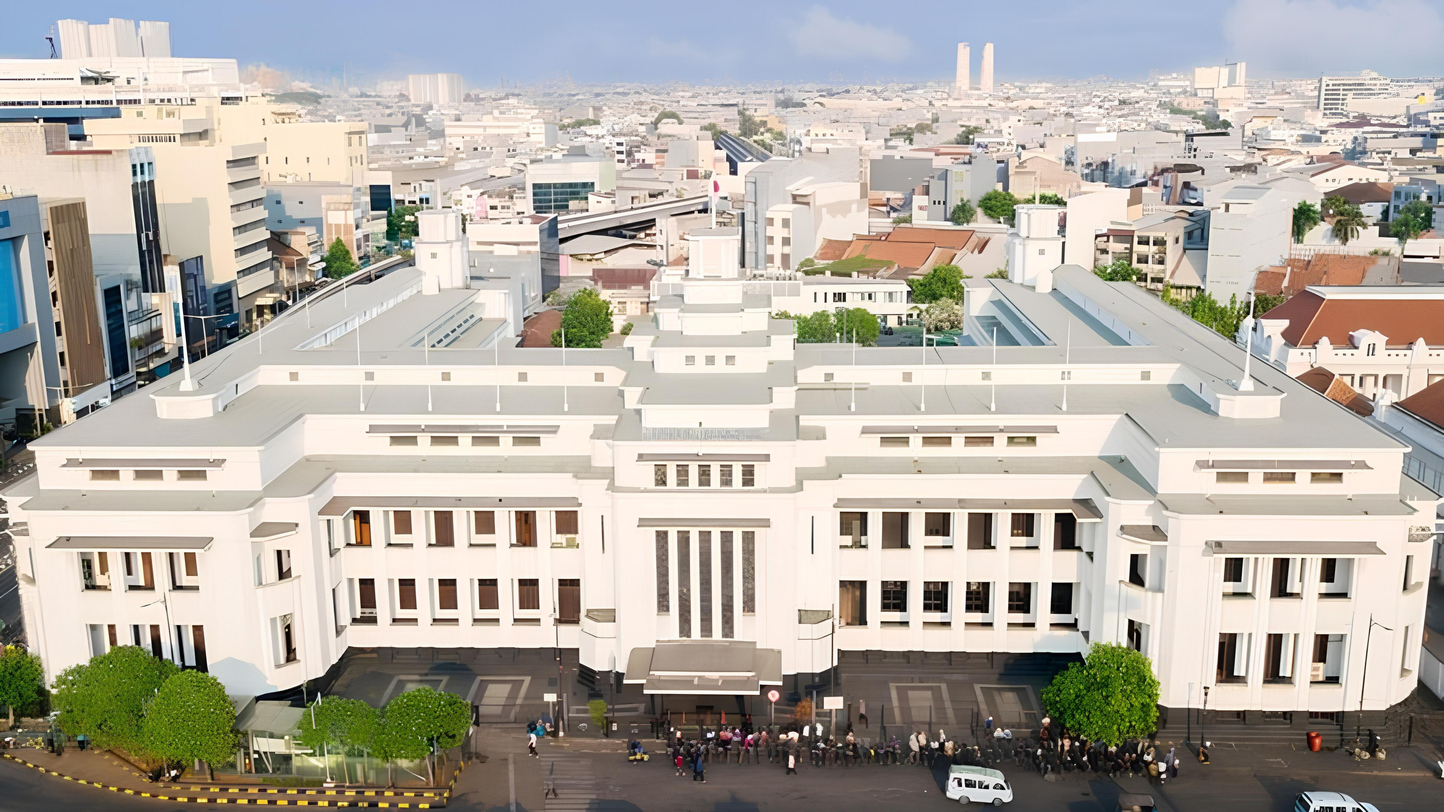
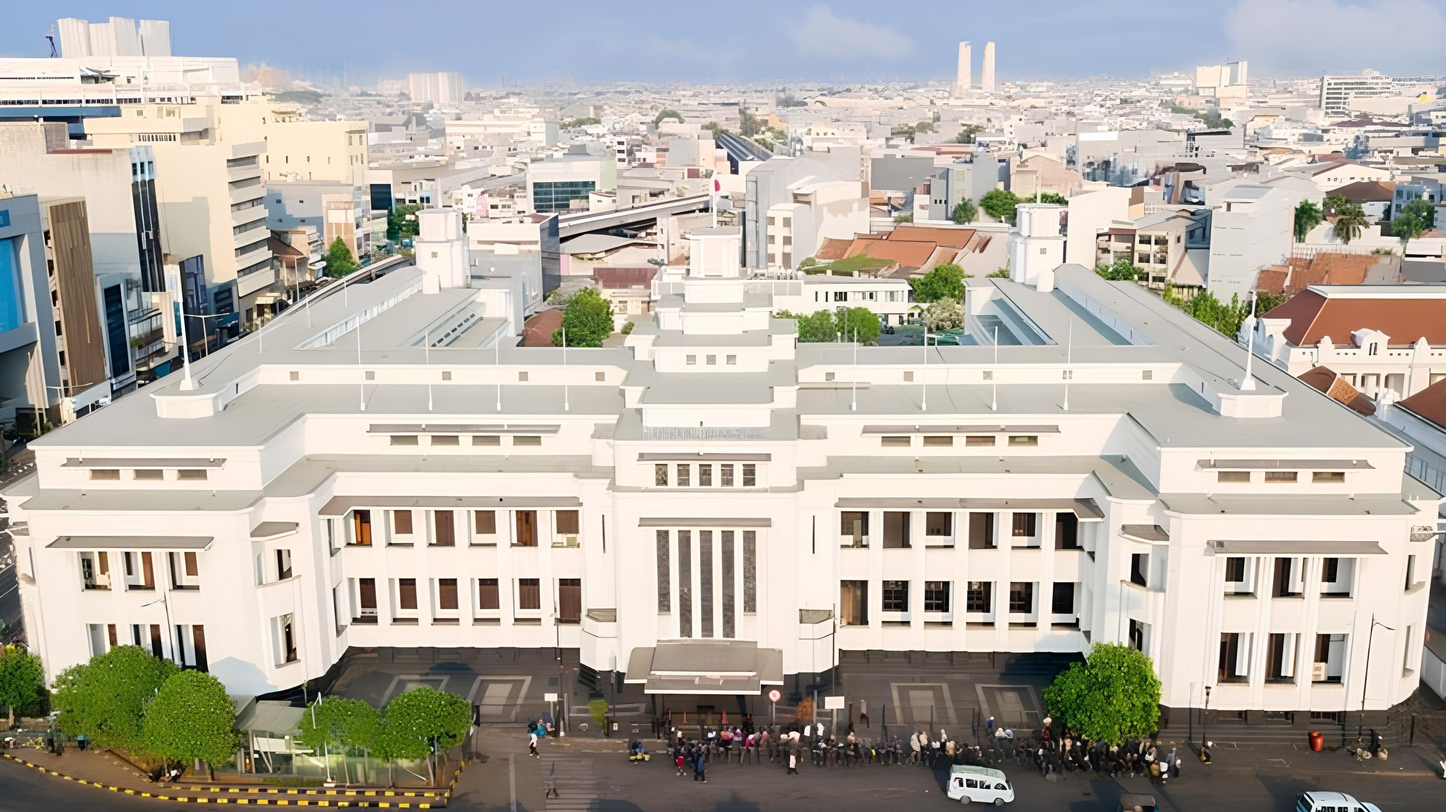
Homepage nav font, slide button, start button, and image fix

diff --git a/Home/home.css b/Home/home.css
@@ -12,14 +12,13 @@ li {
 a {
     text-decoration: none;
     color: black;
-    font-size: 0.8rem;
+    font-size: 2rem;
 }
 
 a:hover {
-    color: orange;
+    color: rgb(0, 0, 0);
+    font-weight: bolder;
 }
-
-
 
 .navbar {
     list-style-type: none;
@@ -34,17 +33,22 @@ a:hover {
     z-index: 99;
     padding-left: 4vw;
     padding-right: 4vw;
+    padding-top: 1vw;
 }
 
 .navbar .logo a {
-    font-size: 1.5rem;
-    font-weight: bold;
+    font-size: 2.5rem;
+    font-weight: bolder;
 }
 
 .navbar .links {
     display: flex;
-    gap: 2rem;
+    gap: 4rem;
 }
+
+/* .navbar .links li a {
+    font-size: 20px;
+} */
 
 .navbar .toggle_btn {
     color: #fff;
@@ -61,7 +65,7 @@ a:hover {
     border: none;
     outline: none;
     border-radius: 20px;
-    font-size: 0.8rem;
+    font-size: 1.2rem;
     font-weight: bold;
     cursor: pointer;
 }
@@ -141,6 +145,88 @@ a:hover {
     position: relative;
 }
 
+.black-icon {
+    color: black;
+}
+
+.museum {
+    position: fixed;
+    overflow: hidden; 
+}
+
+.museumimages {
+    filter: brightness(80%);
+}
+
+.w3-button {
+    border: none;
+    display: inline-block;
+    padding: 10px;
+    vertical-align: middle;
+    overflow: hidden;
+    text-decoration: none;
+    color: inherit;
+    background-color: inherit;
+    text-align: center;
+    cursor: pointer;
+    white-space: nowrap;
+    font-size: 80px;
+}
+
+.w3-button:hover {
+    color: #000!important;
+    background-color: #ccc!important;
+}
+
+.w3-display-left {
+    position: absolute;
+    top: 45%;
+    left: 0%;
+    transform: translate(0%,-50%);
+    -ms-transform: translate(-0%,-50%);
+}
+
+.w3-display-right {
+    position: absolute;
+    top: 45%;
+    right: 0%;
+    transform: translate(0%,-50%);
+    -ms-transform: translate(0%,-50%);
+}
+
+.w3-black,.w3-hover-black:hover {
+    color: #fff!important;
+    background-color: #000!important;
+}
+
+button {
+    background-color: #04AA6D; /* Green */
+    border: none;
+    color: white;
+    padding: 15px 32px;
+    text-align: center;
+    text-decoration: none;
+    display: inline-block;
+    font-size: 16px;
+    margin: 4px 2px;
+    cursor: pointer;
+}
+
+.start_btn {
+    background-color: rgba(0, 0, 0, 0.7);
+    color:  white;
+    border: 4px solid #555555;
+    padding: 0.5rem;
+    border-radius: 20px;
+    position: absolute;
+    align-items: center;
+    font-size: 2rem;
+    top: 80%;
+    left: 50%;
+    transform: translate(-50%, -50%);
+    letter-spacing: 0.2rem;
+}
+
 @media (max-width: 1000px) {
     .navbar .links,
     .navbar .action_btn {
@@ -158,102 +244,14 @@ a:hover {
     .museum h1{
         width: 100%;
         text-align: center;
-        top: 35%;
+        top: 25%;
     }
-}
 
-.black-icon {
-    color: black;
-}
+    .w3-button {
+        font-size: 40px;
+    }
 
-.museum {
-    position: fixed;
-    overflow: hidden; 
-}
-
-.museumimages {
-    filter: brightness(80%);
-}
-
-.w3-button {
-    border:none;
-    display:inline-block;
-    padding:8px 16px;
-    vertical-align:middle;
-    overflow:hidden;
-    text-decoration:none;
-    color:inherit;
-    background-color:inherit;
-    text-align:center;
-    cursor:pointer;
-    white-space:nowrap;
-}
-
-.w3-button:hover {
-    color:#000!important;
-    background-color:#ccc!important;
-}
-
-.w3-display-left {
-    position:absolute;
-    top:50%;
-    left:0%;
-    transform:translate(0%,-50%);
-    -ms-transform:translate(-0%,-50%);
-}
-
-.w3-display-right {
-    position:absolute;
-    top:50%;
-    right:0%;
-    transform:translate(0%,-50%);
-    -ms-transform:translate(0%,-50%);
-}
-
-.w3-black,.w3-hover-black:hover {
-    color:#fff!important;
-    background-color:#000!important;
-}
-
-.w3-display-left2 {
-    position:absolute;
-    top:42.5%;
-    left:0%;
-    transform:translate(0%,-50%);
-    -ms-transform:translate(-0%,-50%);
-}
-
-.w3-display-right2 {
-    position:absolute;
-    top:42.5%;
-    right:0%;
-    transform:translate(0%,-50%);
-    -ms-transform:translate(0%,-50%);
-}
-
-button {
-    background-color: #04AA6D; /* Green */
-    border: none;
-    color: white;
-    padding: 15px 32px;
-    text-align: center;
-    text-decoration: none;
-    display: inline-block;
-    font-size: 16px;
-    margin: 4px 2px;
-    cursor: pointer;
-}
-
-.start_btn {
-    background-color: rgba(0, 0, 0, 0.5);
-    color:  white;
-    border: 2px solid #555555;
-    padding: 0.5rem;
-    border-radius: 20px;
-    position: absolute;
-    font-size: 2rem;
-    top: 80%;
-    left: 50%;
-    transform: translate(-50%, -50%);
-    letter-spacing: 0.2rem;
+    .start_btn {
+        top: 65%;
+    }
 }

diff --git a/Home/home.html b/Home/home.html
@@ -10,7 +10,7 @@
 </head>
 <body>
     <div class="navbar">
-        <div class="logo"><a href="#">Jelajah</a></div>
+        <div class="logo"><a href="../Home/home.html">Jelajah</a></div>
         <ul class="links">
             <li><a href="../Home/home.html">Home</a></li>
             <li><a href="../About/about.html">About Us</a></li>
@@ -31,7 +31,7 @@
     </div>
     <div class="museum">
         <div class="fatahillah slides">
-            <img class="museumimages" src="../Image/Background_Fatahillah1.jpg" style="width:100%" height="auto">
+            <img class="museumimages" src="../Image/Background_Fatahillah1.png" style="width:100%" height="auto">
             <h1 style="font-size: 12vw;">FATAHILLAH</h1>
             <a href="../Home/Tour_Fatahillah/fatahillah.html" class="start_btn">Learn More</a>
             <button class="w3-button w3-display-left" onclick="plusDivs(-1)">&#10094;</button>
@@ -48,11 +48,9 @@
             <img class="museumimages" src="../Image/mm.jpg" style="width:100%" height="auto">
             <h1 style="font-size: 12vw;">MANDIRI</h1>
             <a href="../Home/Tour_Mandiri/mandiri.html" class="start_btn">Learn More</a>
-            <button class="w3-button w3-display-left2" onclick="plusDivs(-1)">&#10094;</button>
-            <button class="w3-button w3-display-right2" onclick="plusDivs(+1)">&#10095;</button>
+            <button class="w3-button w3-display-left" onclick="plusDivs(-1)">&#10094;</button>
+            <button class="w3-button w3-display-right" onclick="plusDivs(+1)">&#10095;</button>
         </div>
-        <button class="w3-button w3-display-left" onclick="plusDivs(-1)">&#10094;</button>
-        <button class="w3-button w3-display-right" onclick="plusDivs(+1)">&#10095;</button>
     </div>
     <script src="home.js"></script>
     <script src="slides.js"></script>

diff --git a/Home/Tour_BankIndonesia/bankindonesia.css b/Home/Tour_BankIndonesia/bankindonesia.css
@@ -12,11 +12,12 @@ li {
 a {
     text-decoration: none;
     color: black;
-    font-size: 0.8rem;
+    font-size: 1.5rem;
 }
 
 a:hover {
-    color: orange;
+    color: rgb(0, 0, 0);
+    font-weight: bolder;
 }
 
 .navbar {
@@ -44,7 +45,7 @@ a:hover {
 
 .navbar .links {
     display: flex;
-    gap: 2rem;
+    gap: 4rem;
 }
 
 .navbar .toggle_btn {

diff --git a/Home/Tour_Fatahillah/fatahillah.css b/Home/Tour_Fatahillah/fatahillah.css
@@ -12,11 +12,12 @@ li {
 a {
     text-decoration: none;
     color: black;
-    font-size: 0.8rem;
+    font-size: 1.5rem;
 }
 
 a:hover {
-    color: orange;
+    color: rgb(0, 0, 0);
+    font-weight: bolder;
 }
 
 .navbar {
@@ -44,7 +45,7 @@ a:hover {
 
 .navbar .links {
     display: flex;
-    gap: 2rem;
+    gap: 4rem;
 }
 
 .navbar .toggle_btn {

diff --git a/Home/Tour_Mandiri/mandiri.css b/Home/Tour_Mandiri/mandiri.css
@@ -12,11 +12,12 @@ li {
 a {
     text-decoration: none;
     color: black;
-    font-size: 0.8rem;
+    font-size: 1.5rem;
 }
 
 a:hover {
-    color: orange;
+    color: rgb(0, 0, 0);
+    font-weight: bolder;
 }
 
 .navbar {
@@ -44,7 +45,7 @@ a:hover {
 
 .navbar .links {
     display: flex;
-    gap: 2rem;
+    gap: 4rem;
 }
 
 .navbar .toggle_btn {
